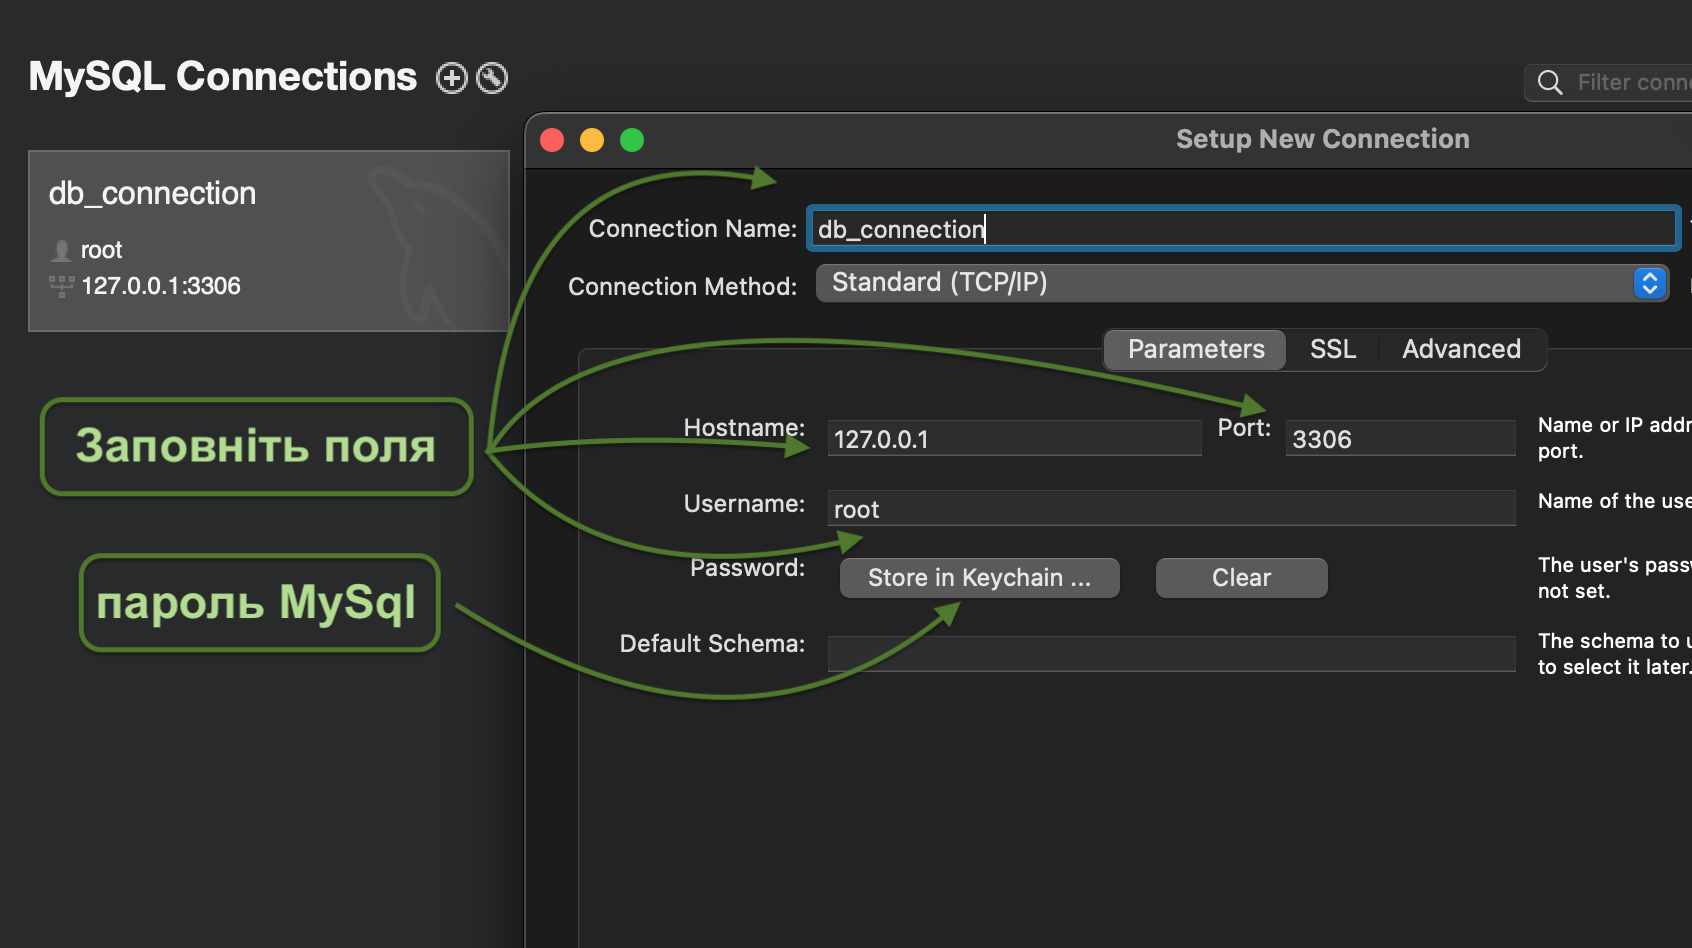
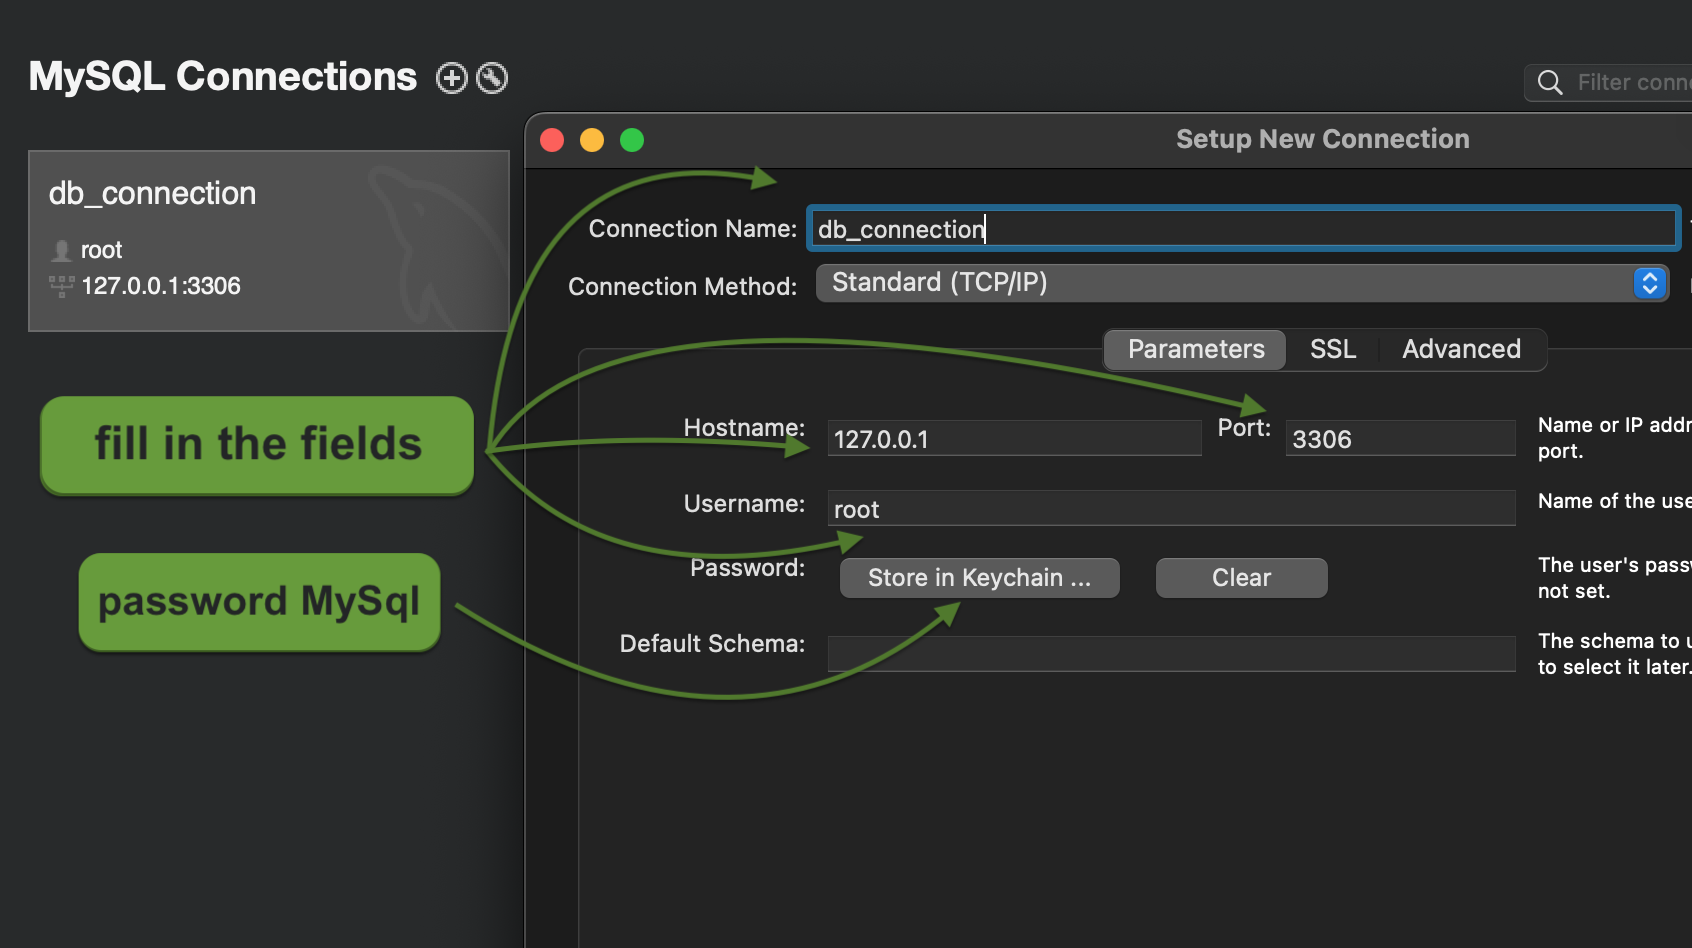
С005_taxi-service

Changed region(s): [[0.0, 0.3977, 0.3073, 0.52], [0.0307, 0.5812, 0.2766, 0.7036]]

diff --git a/README.md b/README.md
@@ -1,98 +1,95 @@
 <h1 align="center"> Taxi-Service </h1> <br>
 
 <p align="center">
-  Програма дозволяює переглядати, налаштовувати і змінювати списки 
-            таксопарку лише зареєстрованим користувачам-водіям.
+The program allows you to view, configure and change liststaxi fleet only to registered driver users.
 </p>
 
 ```
-примітка: користувач та водій і є юзей. Завдяки цому водії можуть користуватися програмою
+note: a driver are a user. Thanks to which drivers can use the program
 ```
 
 
 ## Table of Contents
 
-- [Більш детальний опис функціональності](#functionality)
-- [Структура проекту](#project-structure)
-- [Використані технології](#technologies-used)
-- [Інструкції по запуску проекту](#instructions)
+- [A more detailed description of the functionality](#functionality)
+- [Project structure](#project-structure)
+- [Technologies used](#technologies-used)
+- [Instructions for launching the project](#instructions)
 ---
 
 ## functionality
 
 #### Login :
-Программа taxi-service вітає нас на головній сторінці логін. Де відбувається реєстрація і вхід до таблиці сервісу.
- - [переглянути структуру сторінки логін](#login-page)
+The taxi service program welcomes us to the main authorization page. Where does registration and entry into the service table take place.
+ - [view the structure of the 'login' page](#login-page)
 ![](READMEimages/login.png)
 
 #### _Add driver_ :
-У випадку коли юзер не зареестрований ми можемо додати його завдяки кнопці 'Add driver' що дозволяє створити нового водія-користувача та занести його до бази даних таксопарку.
- - [переглянути структуру сторінки 'Add driver'](#add-driver)
+In the event that the user is not registered, we can add him thanks to the 'Add driver'  button, which allows you to create a new driver-user and add him to the taxi fleet database.
+ - [view the structure of the 'Add driver' page](#add-driver)
 ![](READMEimages/add-driver.png)
 
 #### _Taxi service_ :
-Якщо пароль і логін існують в нашій базі даних то ми потрапляємо на сторінку 'Taxi service' це меню складається з 8 пунктів.
-Сім пунктів відповідають за посилання на меню та таблиці і один це кнопка 'current driver' яка демонструє всі машини користувача,що залогінівся і знаходится в меню 'Taxi service'
+If the password and login are in our database, we get to the "Taxi Service" page. This menu consists of 8 items. Seven fields are responsible for links to menus and tables and one "current driver" button, which shows all the cars of the user who is authorized and is in the "Taxi Service" menu.
 ![](READMEimages/taxi-service.png)
 
 
 
 ```
-1.Посилання 'Display All Drivers' переность на 'All Drivers', що містить всіх водіїв що значиться у таксопарку.
+1. The 'Display All Drivers' link moves to 'All Drivers', which contains all the drivers listed in the taxi fleet.
 ```
- - [переглянути структуру сторінки 'All Drivers'](#all-drivers)
+ - [view the structure of the 'All Drivers' page](#all-drivers)
 ![](READMEimages/all-Drivers.png)
 
 
-
 ```
-2.Посилання 'Display All Cars' переность на 'All cars', що містить всі машини що значиться в таксопарку
+2. The 'Display All Cars' link moves to 'All cars', which contains all the cars listed in the taxi fleet
 ```
- - [переглянути структуру сторінки 'All Cars'](#all-drivers)
+ - [view the structure of the 'All Cars' page](#all-drivers)
 ![](READMEimages/all-cars.png)
 
 
 
 ```
-3.Посилання 'Display All Manufacturers' переность на таблицю 'All manufacturers:', яка містить всіх виробників що значиться в таксопарку
+3. The 'Display All Manufacturers' link takes you to the 'All manufacturers:' table, which contains all the manufacturers listed in the taxi fleet
 ```
- - [переглянути структуру сторінки 'All manufacturers'](#all-manufacturers)
+ - [view the structure of the 'All manufacturers' page](#all-manufacturers)
 ![](READMEimages/all-manufacturers.png)
 
 
 
 ```
-4.Посилання 'Create new Driver' переность на сторінку з меню 'Add driver', дозволяє створити нового водія-користувача та занести його до бази даних таксопарку.
+4. The 'Create new Driver' link moved to the page from the 'Add driver' menu allows you to create a new user driver and enter it into the taxi fleet database.
 ```
- - [переглянути структуру сторінки 'Add driver'](#add-driver)
+ - [view the structure of the 'Add driver' page](#add-driver)
 ![](READMEimages/add-driver.png)
 
 
 ```
-5.Посилання 'Create new Car' переность на сторінку з меню 'Add car', створити нову машину і занести її до нашої бази
+5. The 'Create new Car' link takes you to the page from the 'Add car' menu, to create a new car and enter it into our database
 ```
- - [переглянути структуру сторінки 'Add car'](#add-car)
+ - [view the structure of the 'Add car' page](#add-car)
 ![](READMEimages/add-car.png)
 
 
 ```
-6.Посилання 'Create new Manufacturer' переность на сторінку з меню 'Add manufacturer', дозволяє створити нового виробника машин і занести його до нашої бази
+6. The 'Create new Manufacturer' link moved to the page from the 'Add manufacturer' menu allows you to create a new machine manufacturer and enter it into our database
 ```
- - [переглянути структуру сторінки 'Add car'](#add-manufacturer)
+ - [view the structure of the 'Add car' page](#add-manufacturer)
 ![](READMEimages/add-manufacturer.png)
 
 
 ```
-7.Посилання 'Add Driver to Car' переность на сторінку з меню 'Add driver to car', дозволяє закріпити водія за автомобілем
+7. The 'Add Driver to Car' link takes you to the page from the 'Add driver to car' menu, allows you to attach a driver to the car
 ```
- - [переглянути структуру сторінки 'Add driver to car'](#add-driver-to-car)
+ - [view the structure of the 'Add driver to car' page](#add-driver-to-car)
 ![](READMEimages/add-driver-to-car.png)
 
 
 ```
-8.кнопка 'current driver' ця кнопка йде останньою у меню 'Taxi service' та демонструє всі машини користувача, що залогінівся і знаходится в цому меню. При натискані відкриває таблицю 'All cars' але фільтр виводить лиге автомобілі залогіненого користувача
+8. the 'current driver' button, this button is the last in the 'Taxi service' menu and displays all the cars of the logged-in user in this menu. When clicked, it opens the "All cars" table, but the filter displays only the cars of the logged-in user
 ```
- - [переглянути структуру сторінки 'Add driver to car'](#all-cars-current)
+ - [view the structure of the 'Add driver to car' page](#all-cars-current)
 ![](READMEimages/all-cars-current.png)
 
 ---
@@ -101,102 +98,102 @@
 
 ##### login-page 
 
-1. 'Please enter your login:' - вести логін водія
-2. 'Please enter your password:' - вести пароль водія
-3. кнопка 'login' - дозволяє залогінитись і прейти до сторінки 'Taxi service' де ми і можемо керувати нашим таксопарком.
+1. 'Please enter your login:' - enter the driver's login
+2. 'Please enter your password:' - enter the driver's password
+3. button 'login' - allows you to log in and go to the 'Taxi service' page where we can manage our taxi fleet.
 
-		примітка: Якщо юзер заерестрований то ми попадемо до меню 'Taxi service',
-		якщо ні то випливе назва "Username or password was incorrect" що вказу на те що такого користувача нема в нашій базі
+```
+note: If the user is registered, we will get to the 'Taxi service' menu,
+if not, then the name "Username or password was incorrect" will appear, indicating that such a user is not in our database
+```
 		
-4. кнопка 'add new driver' - дозволяє створити нового водія-користувача після натискання нас перенесе на сторінку 'Add driver' де ми і рееструємо нового водія-користувача.
+4. the 'add new driver' button - allows you to create a new driver-user, after clicking it will take us to the 'Add driver' page, where we register a new driver-user.
 
 ##### add-driver
 
-1. В поле 'Name' - вести імя водія-користувача
-2. В поле 'License number' - вести особистий ідетифікатор водія
-3. В поле 'login' - вести логін водія
-4. В поле 'password' - вести пароль водія
-5. потім потрібно натиснути кнопку
-	"Add" яка іде одразу після всіх заповнених полів.
-	Новий юзер збережеться до нашої бази 
+1. In the 'Name' field - enter the name of the driver-user
+2. In the 'License number' field - enter the personal driver's license number
+3. In the 'login' field - enter the driver's login
+4. In the 'password' - enter the driver's password
+5. Then you need to press the button
+"Add" which comes immediately after all filled fields.
+The new user will be saved to our database 
 
 ##### all-drivers
 
-1. ID ~ Особистий ідетифікатор водія
-2. Name ~ Імя водія
-3. License number ~ Особистий ліцензійний номер водія 
-4. login ~ логін водія
-5. password ~ пароль водія
-6. delete ~ дозволяє видилити водія з таксі сервісу
+1. ID ~ Driver's personal ID
+2. Name ~ Driver's name
+3. License number ~ Personal license number of the driver 
+4. login ~ Driver login
+5. password ~ Driver password
+6. delete ~ Allows you to remove a driver from the taxi service
 
 ##### all-manufacturers
-1. ID ~ Особистий ідетифікатор виробника автомобіля
-2. Name ~ Назва виробника автомобіля
-3. Country ~ Вказує на країну походження виробника
-4. Delete ~ Дозволяє видилити виробника з таксі сервісу
+1. ID ~ Personal ID of the car manufacturer
+2. Name ~ Name of the car manufacturer
+3. Country ~ Indicates the country of origin of the manufacturer
+4. Delete ~ Allows you to remove the manufacturer in the taxi service
 
 ##### add-car
-1. В поле 'Model' - вести модель автомобіля
-2. В поле 'Manufacturer ID' - ввести ідентифікаційний номер виробника який знаходится у таблиці 'All manufacturers'
+1. In the 'Model' field - enter the car model
+2. In the 'Manufacturer ID' field - enter the manufacturer's ID number, which is in the "All manufacturers" table
 ```
-'All manufacturers' в колонці 'ID'. Це потібно щоб програма змогла знайти виробника нашої машини
+in 'All manufacturers' in the 'ID' column this is necessary so that the program can find the manufacturer of our car
 ``` 
-3. потім потрібно натиснути кнопку "Add" яка іде одразу після всіх заповнених полів. Новий автомобіль буде збережений до нашої бази 
+3. then you need to press the "Add" button, which comes immediately after all filled-in fields. The new car will be saved to our base 
 
 ##### add-manufacturer
-1. В поле 'Name' - вести назву заводу автомобілей
-2. В поле 'Country' - ввести країну виробника
-3. потім потрібно натиснути кнопку "Add" яка іде одразу після всіх заповнених полів. Новий виробник буде збережений нашої бази 
+1. In the 'Name' field - enter the name of the car manufacture
+2. In the 'Country' field - enter the country of manufacture
+3. then you need to press the "Add" button, which comes immediately after all filled-in fields. The new manufacturer will be saved in our database 
 
 ##### add-driver-to-car
-1. В поле 'Car ID' - вести ідетифікатор машини
+1. In the 'Car ID' field - enter the machine ID
 ```
-ідетифікатор машини знаходеться в таблиці 'All cars' в колонці 'ID'
+the car ID is in the 'All cars' table in the 'ID' column
 ```
-2. В поле 'Driver ID' - вести ідетифікатор водія
+2. In the 'Driver ID' field - enter the driver's ID
 ```
-ідетифікатор водія знаходеться в таблиці 'All Drivers' на колонці 'ID'
+the driver ID is in the 'All Drivers' table in the 'ID' column
 ```
-3. потім потрібно натиснути кнопку "Add" яка іде одразу після всіх заповнених полів. Водій що був обран по id буде доданий до машини що була обрана по id
+3. then you need to press the "Add" button, which comes immediately after all filled-in fields. The driver selected by ID will be added to the car selected by ID
 
 ##### all-cars-current
-1. ID ~ Особистий ідетифікатор автомобіля
-2. Manufacturer name ~ Назва виробника автомобіля
-3. Manufacturer country ~ Вказує на країну походження виробника
-4. Drivers ~ ця колонка демонструє водіїв записаних за цим автомобілем
+1. ID ~ Personal vehicle ID
+2. Manufacturer name ~ Name of the car manufacturer
+3. Manufacturer country ~ Indicates the country of origin of the manufacturer
+4. Drivers ~ this column shows the drivers registered for this car
 ```
- колонка 'Drivers' містить 3 значення з таблиці 
- 'All Drivers', a came
- 	  ID, Name, License number
+column 'Drivers' contains 3 values from the table
+  'All Drivers', a namely: 'ID', 'Name', 'License number'
 ```
-6. delete ~ дозволяє видилити машину з таксі сервісу
+6. delete ~ allows you to remove the car from the taxi service
 ---
 ## technologies-used
-##### у цьому проекті були використані такі інструменти як:
+##### in this project such tools were used as:
 
  	MySQL Workbench
  	apache-tomcat-9.0.75
 
 ---
 ## instructions
-1. Підключитися до SQL за допомогою консолі:
+1. Connect to SQL using the console:
 ```
 ~ % /usr/local/mysql/bin/mysql -u root -p
-Enter password: (пароль на SQL)
+Enter password: (your SQL password)
 ```
-2. Встановити MySQL Workbench та створити connection
-і вессти пароль mysql що ми створили у консолі
+2. Install 'MySQL Workbench' and create a connection and enter the mysql password that we created in the console
 ![](READMEimages/MySQL-workbench.png)
 
-3. Скопіювати sql запит з проэкту та вставити у Workbench
+3. Copy the sql query from the project and paste it into Workbench
 ![](READMEimages/sql.png)
 
-4. Завантажити apache-tomcat-9.0.75 на свій компютер і
-запустити його в intellij idea. Для цого переходимо в Edit Configurations... і обераємо локальний tomCat
+4. Download apache-tomcat-9.0.75 to your computer and
+run it in intellij idea. To do this, go to Edit Configurations... and select local tomCat
 ![](READMEimages/tomCat.png) 
-Потім натискаємо Configure і додаємо наш шлях до дерикторії з tomCat
+Then click Configure and add our path to the directory from tomCat
 ![](READMEimages/tomCat2.png) 
-після натискаємо fix і обераємо (web-practice:war exploded) і змінюємо адресу з "/taxi_service_war_exploded" на "/"
+then press fix and select (web-practice:war exploded) and change the address from "/taxi_service_war_exploded" to "/"
 ---
 
 
